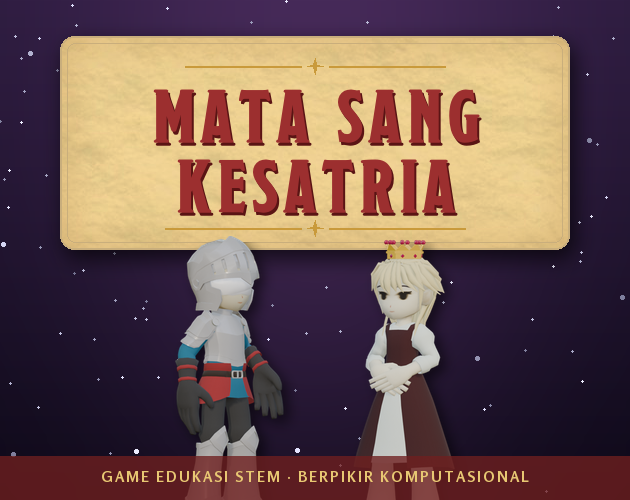
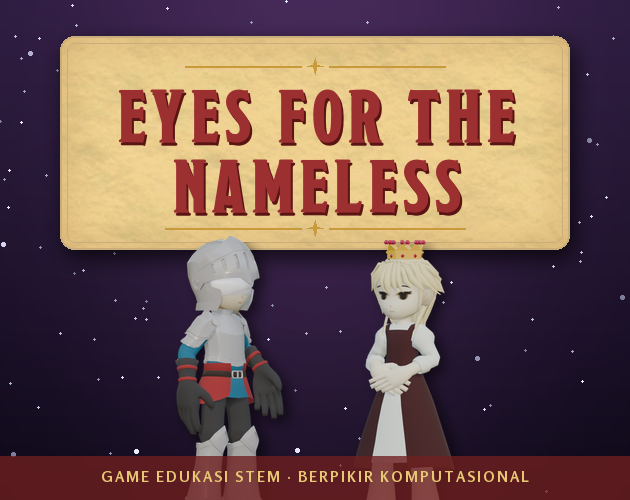
fix animasi

Changed region(s): [[0.181, 0.18, 0.8444, 0.45]]

diff --git a/js/main.js b/js/main.js
@@ -423,7 +423,13 @@ function stripRootMotion(clip) {
   for (const t of clip.tracks) {
     if (!/(Hips|rootx)\.position$/i.test(t.name)) continue;
     const v = t.values;
-    for (let i = 0; i < v.length; i += 3) { v[i] = v[0]; v[i + 2] = v[2]; }
+    // Sumbu tegak = komponen dengan nilai awal terbesar (tinggi pinggul dari lantai).
+    // Mixamo (Hips): Y. Auto-Rig Pro dari Blender (rootx, armature Z-up): Z.
+    // Sumbu tegak dipertahankan (naik-turun pinggul, lonjakan lompat); dua sumbu datar dibekukan.
+    const up = [0, 1, 2].reduce((a, b) => (Math.abs(v[b]) > Math.abs(v[a]) ? b : a), 0);
+    for (let i = 0; i < v.length; i += 3) {
+      for (let k = 0; k < 3; k++) if (k !== up) v[i + k] = v[k];
+    }
   }
   clip.userData = { ...clip.userData, stripped: true };
   return clip;
@@ -512,7 +518,9 @@ async function applyCustomModels() {
       const jumpOwn = byName(KNIGHT_MODEL.jumpClip);
       if (jumpOwn && mixer) {
         jumpAction = mixer.clipAction(stripRootMotion(jumpOwn));
-        jumpAction.play();
+        // sekali putar per perintah Lompat, lalu tertahan di pose mendarat
+        jumpAction.setLoop(THREE.LoopOnce, 1);
+        jumpAction.clampWhenFinished = true;
         jumpAction.setEffectiveWeight(0);
       }
       if (KNIGHT_MODEL.idleUrl) {
@@ -621,7 +629,7 @@ renderer.setAnimationLoop(() => {
   if (mixer) {
     if (idleAction) {
       // campur halus idle <-> jalan
-      walkW += ((walkRate > 0 ? 1 : 0) - walkW) * Math.min(1, dt * 12);
+      walkW += ((walkRate > 0 ? 1 : 0) - walkW) * Math.min(1, dt * 9);
       idleAction.setEffectiveWeight(1 - walkW);
       for (const act of [walkAction, jumpAction]) {
         if (!act) continue;
@@ -682,17 +690,19 @@ function tween(ms, fn, token) {
   });
 }
 
+let walkStopTimer = 0;
 async function travel(ev, token) {
+  clearTimeout(walkStopTimer); // langkah berikutnya menyambung tanpa kembali ke pose diam
   const from = knight.position.clone();
   const to = new THREE.Vector3(worldX(ev.to.x), H, worldZ(ev.to.z));
   const jump = ev.type === 'jump';
-  const arc = jump ? (jumpAction ? 0.3 : 0.7) : 0; // klip Jump sudah mengangkat tubuh sendiri
+  const arc = jump ? (jumpAction ? 0.12 : 0.7) : 0; // klip Jump sudah membawa lonjakan tubuh sendiri
   const ms = dur(jump ? 560 : 420);
   // satu petak = satu langkah kaki = 1/walkSteps klip
   if (jump && jumpAction) {
     // klip lompat diputar penuh sekali selama lompatan
     moveAction = jumpAction;
-    jumpAction.time = 0;
+    jumpAction.reset().play(); // mulai dari awal; LoopOnce mencegah lompatan kedua
     walkRate = jumpAction.getClip().duration / (ms / 1000);
   } else if (walkAction) {
     moveAction = walkAction;
@@ -701,11 +711,15 @@ async function travel(ev, token) {
     walkRate = (walkAction.getClip().duration / steps) / (ms / 1000);
   }
   await tween(ms, (t) => {
-    const e = ease(t);
+    // jalan: kecepatan tetap agar langkah beruntun mengalir; lompat: percepat-perlambat
+    const e = jump ? ease(t) : t;
     knight.position.set(lerp(from.x, to.x, e), lerp(from.y, to.y, e) + Math.sin(Math.PI * t) * arc, lerp(from.z, to.z, e));
     if (!jump && !walkAction) knightBody.position.y = Math.abs(Math.sin(Math.PI * 2 * t)) * 0.05;
   }, token);
-  walkRate = 0;
+  // beri jeda singkat sebelum kembali ke idle: bila perintah berikutnya juga bergerak,
+  // animasi jalan tetap menyambung.
+  if (jump && jumpAction) walkRate = 0; // lompat selesai: langsung kembali ke idle
+  else walkStopTimer = setTimeout(() => { walkRate = 0; }, 180);
   knightBody.position.y = 0;
 }
 

diff --git a/docs/itch/description.html b/docs/itch/description.html
@@ -2,7 +2,7 @@
 <html lang="id">
 <head>
 <meta charset="utf-8">
-<title>Deskripsi itch.io: Mata Sang Kesatria</title>
+<title>Deskripsi itch.io: Eyes for the Nameless</title>
 <style>
   /* Gaya hanya untuk pratinjau lokal. Saat ditempel ke itch.io, warna & font mengikuti tema halaman. */
   body { max-width: 760px; margin: 2rem auto; padding: 0 1rem; font: 16px/1.6 Georgia, serif; color: #3b2a1a; background: #f3e6c8; }
@@ -17,7 +17,7 @@
 </div>
 
 <h2>Seorang kesatria kehilangan penglihatannya. Kamulah matanya.</h2>
-<p><b>Mata Sang Kesatria</b> adalah game puzzle pemrograman 3D untuk belajar berpikir komputasional. Susun blok perintah, yaitu <i>Maju, Belok, Lompat, Ulangi, Jika, Tarik Tuas, Tunggu,</i> dan <i>Fungsi</i>, untuk menuntun kesatria buta keluar dari kastil, dibimbing suara sang putri.</p>
+<p><b>Eyes for the Nameless</b> adalah game puzzle pemrograman 3D untuk belajar berpikir komputasional. Susun blok perintah, yaitu <i>Maju, Belok, Lompat, Ulangi, Jika, Tarik Tuas, Tunggu,</i> dan <i>Fungsi</i>, untuk menuntun kesatria buta keluar dari kastil, dibimbing suara sang putri.</p>
 
 <h3>✦ Tema: STEM Education</h3>
 <p><b>Sub-tema: Sebab Akibat &amp; Satu Langkah Kecil</b></p>

diff --git a/tools/make_itch_art.py b/tools/make_itch_art.py
@@ -24,7 +24,7 @@ INK = (59, 42, 26)
 NIGHT_TOP = (42, 26, 60)
 NIGHT_BOT = (12, 8, 22)
 
-TITLE = 'MATA SANG KESATRIA'
+TITLE = 'EYES FOR THE NAMELESS'
 TAGLINE = 'Satu langkah kecil · satu perintah · satu akibat'
 
 
@@ -191,7 +191,7 @@ def cover():
     d = ImageDraw.Draw(img)
     ornament(d, w // 2, 66, 130)
     f_title = font(NODESTO, 74)
-    for i, line in enumerate(['MATA SANG', 'KESATRIA']):
+    for i, line in enumerate(['EYES FOR THE', 'NAMELESS']):
         y = 80 + i * 70
         text_center(d, w // 2 + 2, y + 3, line, f_title, (90, 20, 20), spacing=3)
         text_center(d, w // 2, y, line, f_title, WAX, spacing=3)
